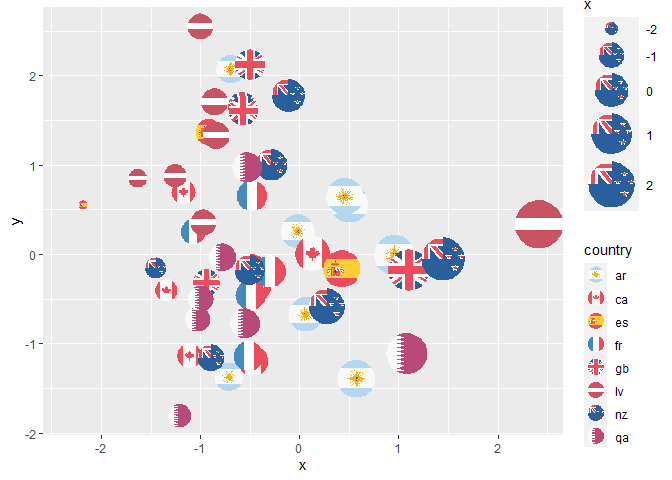
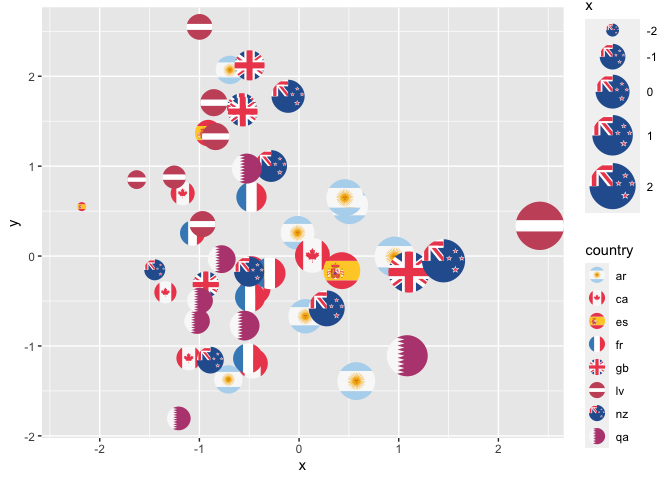
Add changelog; ammend README

diff --git a/README.md b/README.md
@@ -1,13 +1,25 @@
 
 <!-- README.md is generated from README.Rmd. Please edit that file -->
 
-## ggflags
+## ggflags: Plot flags of the world in ggplot2
 
-flag geom for ggplot2
+A flag geom for ggplot2. Uses circular SVG flags.
+
+# Install
+
+Install from R-Universe:
 
 ``` r
+install.packages("ggflags", repos = c(
+  "https://jimjam-slam.r-universe.dev",
+  "https://cloud.r-project.org"))
+```
+
+# Use
+
+``` r
+library(ggplot2)
 library(ggflags)
-#> Loading required package: ggplot2
 
 set.seed(1234)
 d <- data.frame(
@@ -15,6 +27,7 @@ d <- data.frame(
   country = sample(c("ar", "fr", "nz", "gb", "es", "ca", "lv", "qa"), 50, TRUE),
   stringsAsFactors = FALSE
 )
+
 ggplot(d, aes(x = x, y = y, country = country, size = x)) +
   geom_flag() +
   scale_country() +

diff --git a/NEWS.md b/NEWS.md
@@ -1,0 +1,10 @@
+# ggflags 0.0.3
+
+- Adds Rémi Thériault as an author and contributor!
+- Package now complies with R CMD CHECK, paving the way for possible CRAN submission in the future!
+- The package will also promptly be available on https://jimjam-slam.r-universe.dev
+
+# 0.0.2
+
+- Fork from ellisp/ggflags
+- Switches from the use of rectangular PNG flags in ellisp/ggflags to circular SVG flags. This makes them much better for plotting at high resolution, and especially for use in bubble plots.
